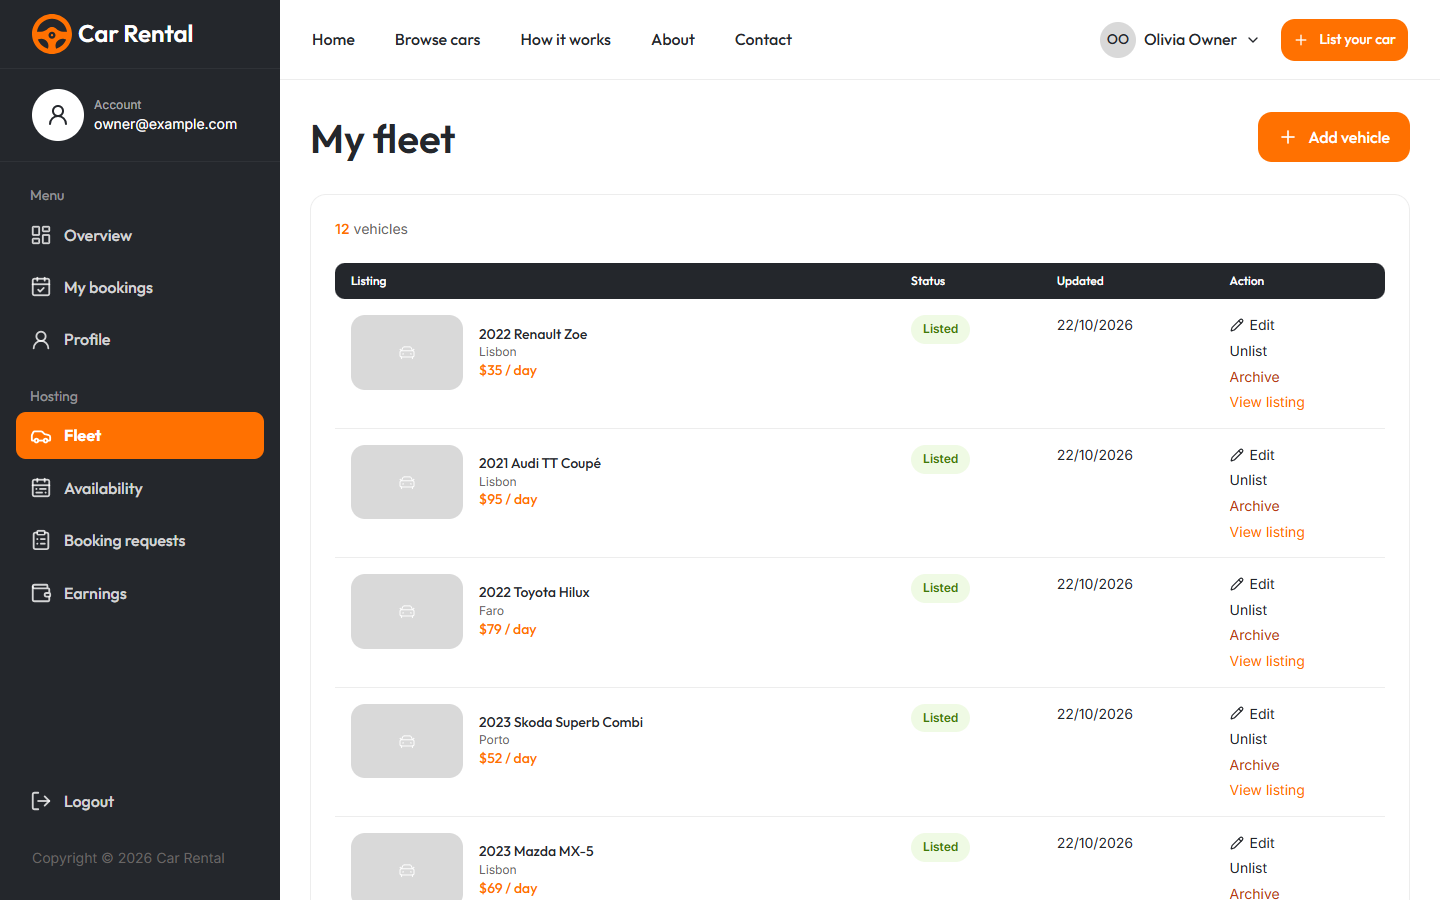
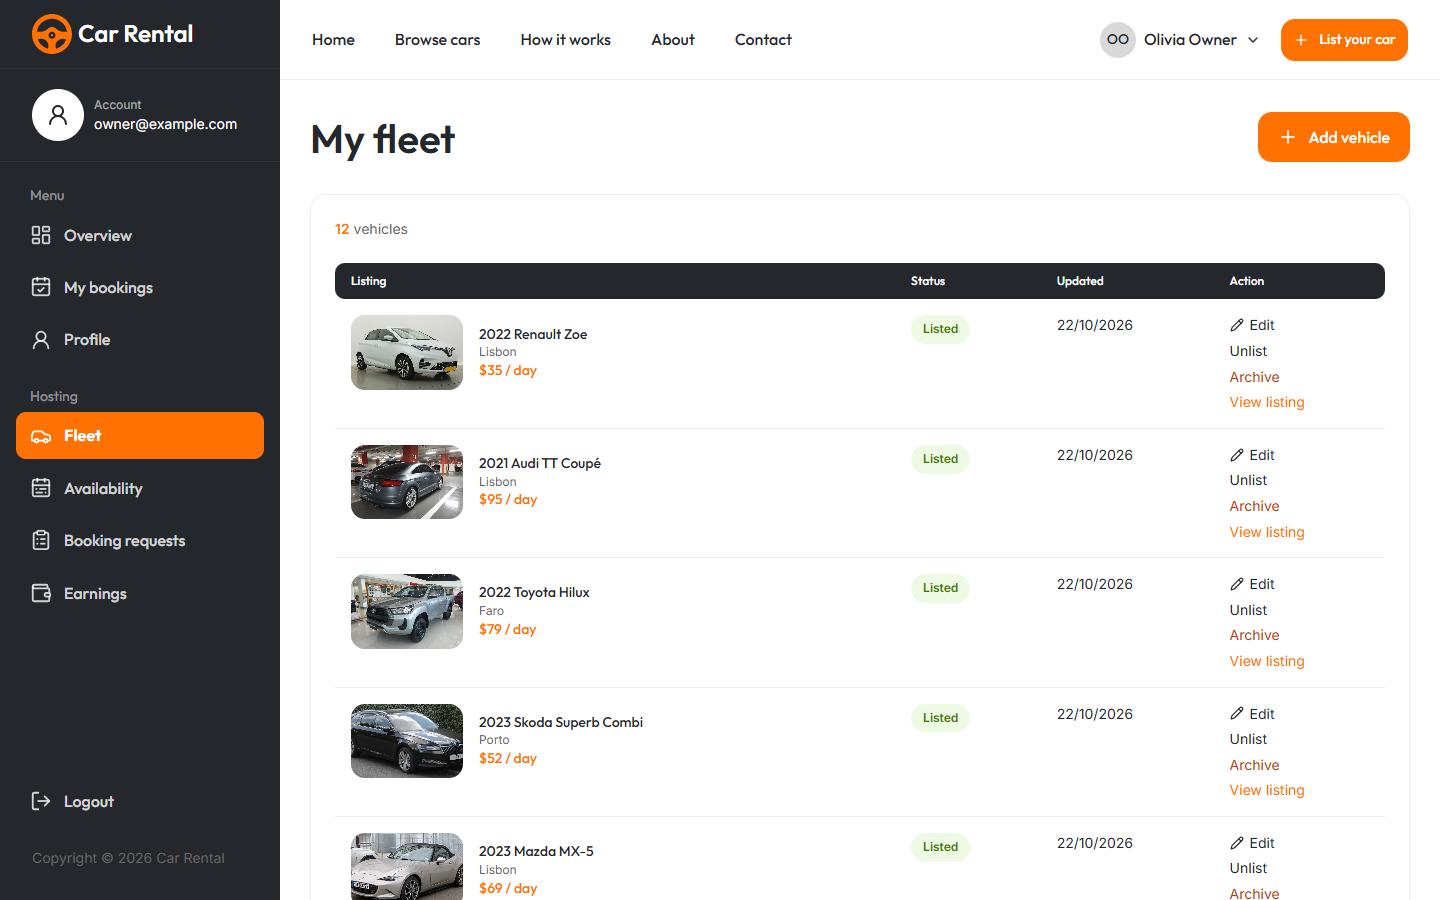
docs: screenshots with real car photos

diff --git a/README.md b/README.md
@@ -31,7 +31,7 @@ A full-stack car rental marketplace, in the style of Turo or Getaround. **Renter
 
 <p align="center"><img src="docs/screenshots/mobile-home.png" alt="Mobile home page" width="260"></p>
 
-*Car photos show placeholders in the seeded demo data. Hosts upload real photos from the fleet editor.*
+*Demo car photos are freely licensed images from Wikimedia Commons ([credits](docs/photo-credits.md)). Hosts upload their own photos from the fleet editor.*
 
 ## Tech stack
 
@@ -204,4 +204,5 @@ See [docs/deployment.md](docs/deployment.md): Docker images for the API and web 
 - [`docs/operations.md`](docs/operations.md) — configuration, health checks, metrics, alerts, runbooks
 - [`docs/engineering-guidelines.md`](docs/engineering-guidelines.md) — engineering principles and project decisions
 - [`docs/known-gaps.md`](docs/known-gaps.md) — what isn't built yet
+- [`docs/photo-credits.md`](docs/photo-credits.md) — authors and licences of the demo car photos
 - [`apps/web/README.md`](apps/web/README.md) and [`apps/api/README.md`](apps/api/README.md) — app-specific notes
